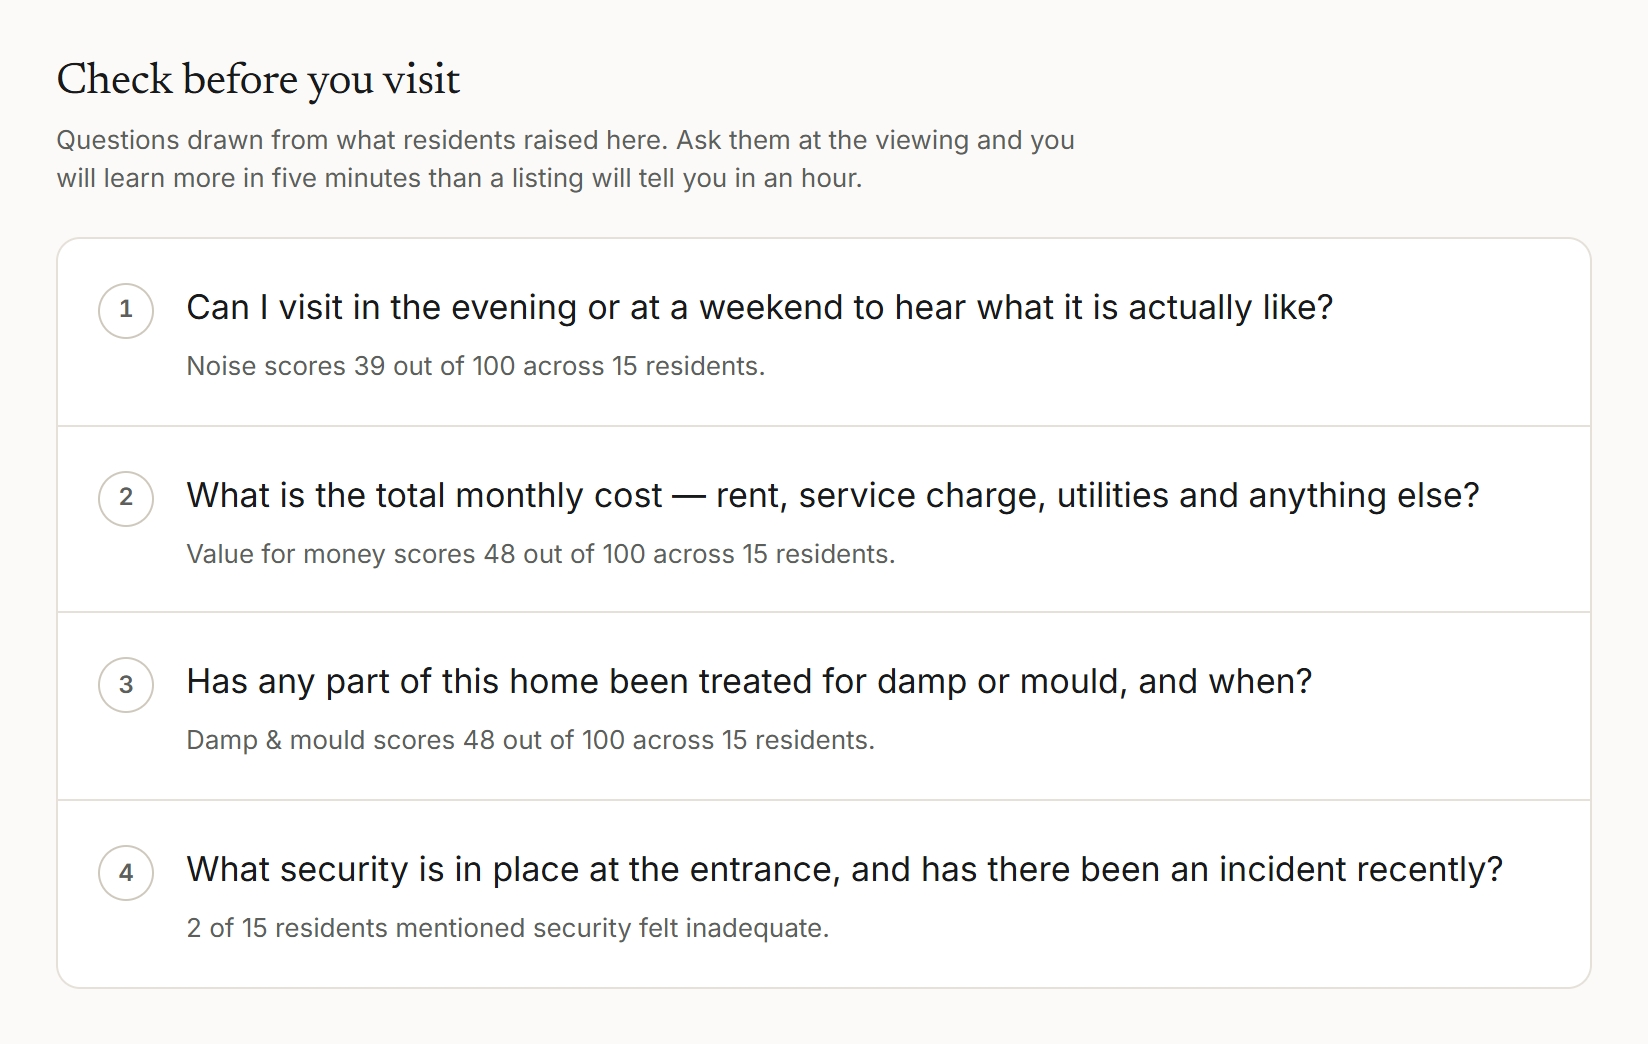
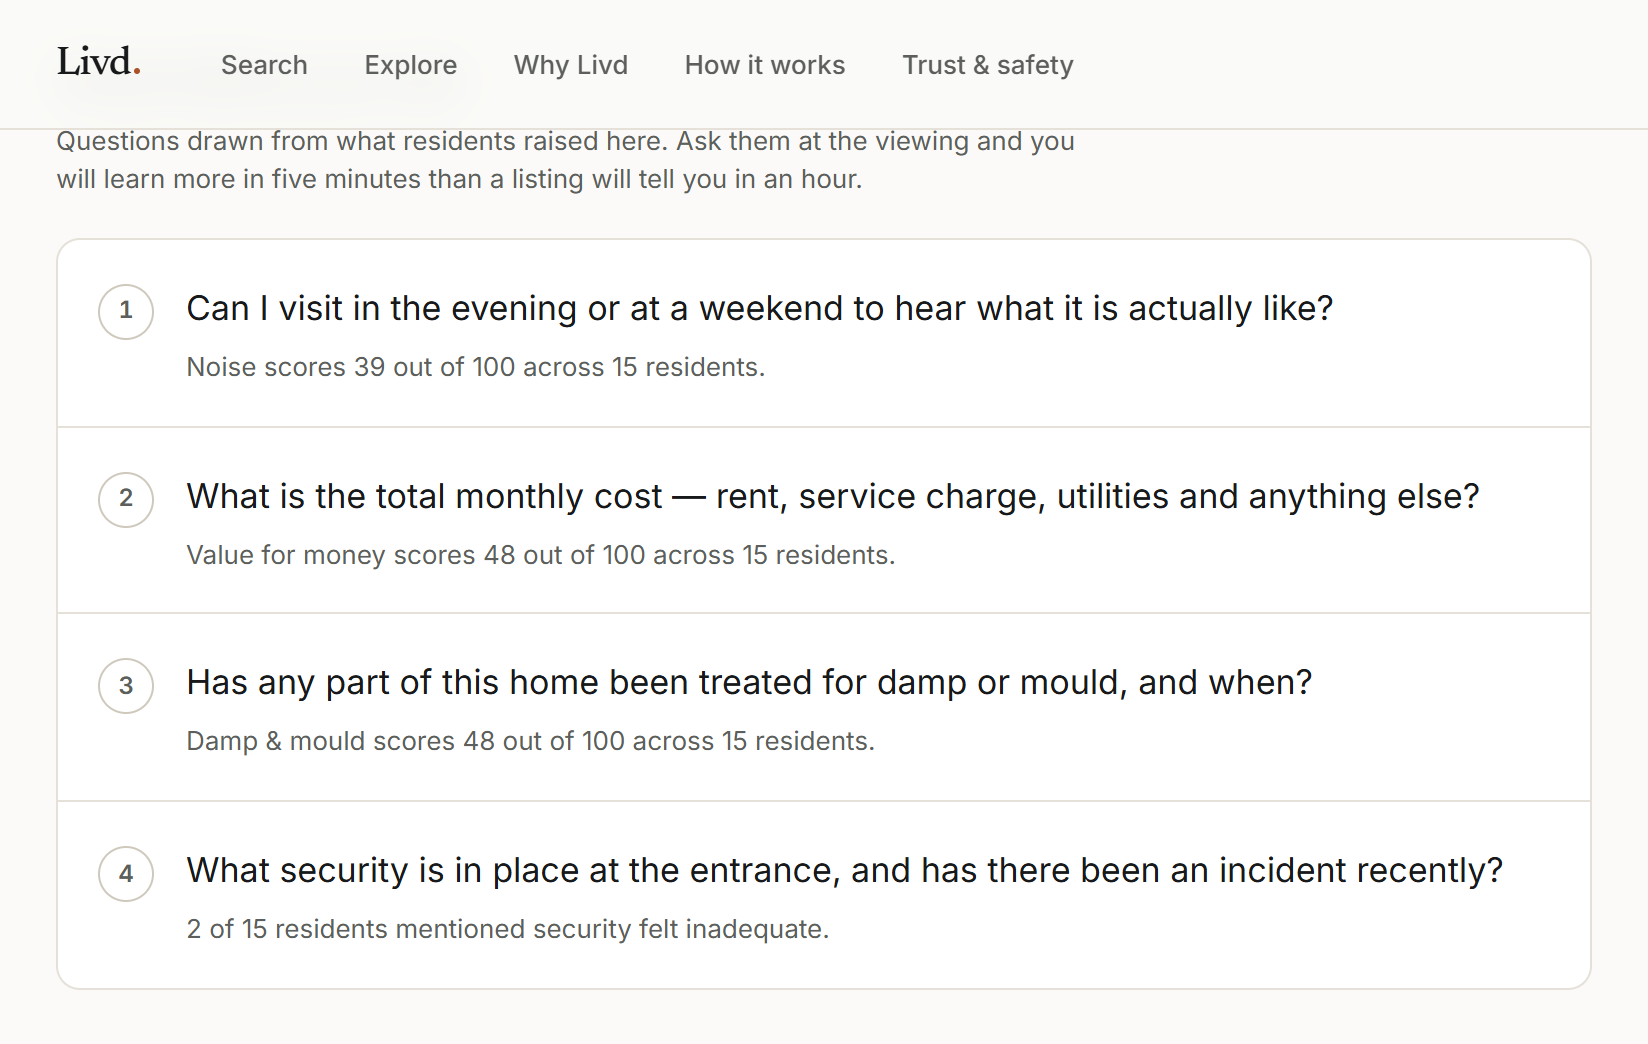
docs: bring the README up to the product it now describes
Sixty-three commits in eight days, and the README stopped keeping up somewhere
around the middle of them. The structure was still right; the substance had
aged badly.

Figures. 953 tests across 58 files, not 427 across 20. 75 policies, 105
database functions, 50 migrations, 40 routes, 212 source files. The schema line
had already been corrected once and drifted again, which is an argument for
counting it rather than remembering it.

Screenshots. Every one of the eighteen showed a navigation bar that no longer
exists — Places became Explore and Why Livd was added — so all of them were
recaptured against livd.site. Eight new ones: Explore, the Trust & Safety case
list, the admin console, the user directory, the audit trail, the report
dialog, email preferences and Why Livd. The case screenshot is a real case,
opened by reporting a review through the product and following it into the
console, rather than a seeded row.

Security testing. docs/security-testing.md did not exist when this README was
written and is now the strongest single thing in the repository: ninety attacks
against the live database, each inside a deliberately aborted transaction, two
of which found real defects. It gets an Evidence entry that says what was found
rather than only that testing happened. A log that never failed would be worth
less.

Two product decisions added, because both are now built and neither was
described: a report opens a case and a case does not act on the review, and
[…]

diff --git a/README.md b/README.md
@@ -70,8 +70,17 @@ literally ask at the viewing. Every question states the evidence it came from.
 </tr>
 </table>
 
+![Explore](docs/images/explore.png)
+
+Explore is the surface for people who do not yet have an address in mind. It
+orders by where the reader is without limiting what they can reach, and says so
+in as many words: *"Search is worldwide. Nothing here is limited to where you
+are."* Below it, neighbourhood-level discovery, and a nearby control that asks
+for a location only once somebody presses it.
+
 More screens in [`docs/images/`](docs/images) — the resident verdict, category
-scores, the freshness panel, the timeline, and the empty states.
+scores, the freshness panel, the timeline, the empty states, the Trust & Safety
+console, and the audit trail.
 
 ---
 
@@ -153,6 +162,49 @@ request could change — the capability does not exist.
 Moderation is on the record too: a review is never deleted, only restatused, and
 every decision is written to an append-only log no role can edit.
 
+### A report opens a decision. It does not make one.
+
+A reader's report becomes a **case** — one investigation, however many reports it
+gathers — with its own priority, category, assignee and notes.
+
+![The Trust &amp; Safety case list](docs/images/trust-safety-cases.png)
+
+The sentence at the top of that screen is the whole design: *"Opening a case does
+nothing to the review it concerns — hiding or removing anything is a separate
+decision, with its own reason."* Investigating and acting are deliberately not
+the same gesture, because a console where looking into something and taking it
+down are one click apart will eventually take down the thing somebody only
+looked into.
+
+Around it: evidence preservation holds that stop material being deleted while a
+case is open, sanctions against accounts rather than only content, authority
+requests logged as disclosure records, and a privileged identity reveal that is
+itself audited — who looked at whose information, not only what they decided.
+
+*Enforced across [migrations 0019–0050](supabase/migrations), and attacked as each one landed — see [`docs/security-testing.md`](docs/security-testing.md).*
+
+### Standing is the strongest thing Livd can do to you, so it is said out loud
+
+An account is `active`, `restricted`, `suspended` or `banned`, and the sanction
+that changes it is a first-class record with a category, a reason and an expiry
+— not a flag somebody flips. Deleting an account severs its writing from it
+rather than erasing it: the reviews, owner replies and moderation record survive
+unattributed, while the shortlist, notifications, location checks and residency
+documents are destroyed.
+
+And the account is told. Two messages ignore the email preferences entirely:
+
+![Email preferences](docs/images/notification-preferences.png)
+
+> A decision that removes something you wrote or changes your account's standing
+> — a platform that can take your writing down and is under no obligation to
+> mention it is not one worth writing for.
+
+There is no newsletter, no digest and no marketing list, so there is nothing on
+that page to turn off that nobody asked for.
+
+*Enforced in [`supabase/migrations/0050_standing_and_the_record.sql`](supabase/migrations/0050_standing_and_the_record.sql) and `src/server/notify/`.*
+
 ### Global from the first commit
 
 Address structure, currency, property-type vocabulary and which review
@@ -178,15 +230,21 @@ rather than merely displays. Written up in [`docs/product-spec.md`](docs/product
 
 **Design.** The design system — tokens, type scale, palette, motion, responsive
 strategy, voice — specified in [`docs/design-system.md`](docs/design-system.md)
-and implemented as 65 components. No component library: a bought design system
+and implemented as 75 components. No component library: a bought design system
 is the fastest route to looking like a template. Every user-facing string lives
 in one typed file so a second locale is a sibling object rather than a
 component change.
 
 **Engineering.** The full application: Next.js App Router, the two-adapter data
 layer, the PostgreSQL schema with its RLS policies and database functions, the
-trust and safety pipeline, the verification architecture, the test suite, and
-the deployment.
+verification architecture, the Trust & Safety case system, the notification
+catalogue and its delivery path, the test suite, and the deployment — domain,
+DNS and mail authentication included.
+
+**Adversarial testing.** I attacked the deployed database as each role and wrote
+down what it refused, including the two occasions it refused nothing. That log
+is [`docs/security-testing.md`](docs/security-testing.md), and the findings in
+it are mine to have made and mine to have found.
 
 **What this is not.** There is no team here, so there is no evidence of
 collaboration, and no real users, so there is no adoption data. The seeded
@@ -230,8 +288,8 @@ library, no analytics SDK, no AI at runtime. The Content-Security-Policy permits
 `'self'` and the Supabase origin and nothing else; fonts are self-hosted, so
 rendering a page contacts no third party.
 
-`41` tables · `63` RLS policies · `100` database functions · `48` migrations ·
-`37` routes · `193` source files · `42` test files.
+`41` tables · `75` RLS policies · `105` database functions · `50` migrations ·
+`40` routes · `212` source files · `58` test files.
 
 Full detail in [`docs/architecture.md`](docs/architecture.md) and
 [`docs/database-schema.md`](docs/database-schema.md).
@@ -240,10 +298,23 @@ Full detail in [`docs/architecture.md`](docs/architecture.md) and
 
 ## Evidence
 
-- **427 tests** across 20 files (`npm test`), weighted toward the highest-risk
+- **953 tests** across 58 files (`npm test`), weighted toward the highest-risk
   code: scoring, the safety linter, rate limiting, burst detection, the
-  verification and account-deletion pipelines, the colour palette and the
-  international layer.
+  verification, sanction and account-deletion pipelines, the notification
+  catalogue, the colour palette and the international layer.
+- **90 recorded attacks against the live database**, in
+  [`docs/security-testing.md`](docs/security-testing.md). Each one impersonates
+  a signed-in browser session by setting the Postgres role and the JWT claims
+  PostgREST would set, and runs inside a transaction that is deliberately
+  aborted, so no production row is created or changed. It is a log rather than a
+  certificate: **two of the runs found real defects**, and both are written up
+  under the word they deserve. A moderator could rewrite `profiles.role` on any
+  account — *"PERMITTED — 1 row. The escalation was real"* — unexploited only
+  because no moderator had been appointed yet. And `reviews.author_id` was
+  readable by `anon`, returning a stable author key for all 222 published
+  reviews; a UUID is not a name, but a stable per-author key on a public row
+  still lets someone group everything one person has written. Both fixed, both
+  re-attacked afterwards to prove the fix.
 - **Zero axe-core violations** across 13 pages in a production build. The one
   violation axe still reports is a disabled pagination control, which WCAG 1.4.3
   exempts as an inactive component and which is `aria-hidden` besides.
@@ -275,10 +346,19 @@ Full detail in [`docs/architecture.md`](docs/architecture.md) and
 
 ## Status
 
-Deployed and working end to end. Not launched — there are no real reviews, and
-three things stand between the current build and a public launch: an email
-provider for magic links, error monitoring, and counsel's review of the three
-policy pages in each market.
+Deployed at [livd.site](https://livd.site) and working end to end. Not launched —
+there are no real reviews yet.
+
+Signing in works, through Google. Notifications are built and delivering:
+Livd sends its own mail through Resend from `notifications@livd.site`, SPF, DKIM
+and DMARC all pass, and `/admin/email` sends the whole catalogue through the
+production path so delivery can be checked without inventing content to trigger
+it. What is still missing is custom SMTP on Supabase's own sender, which is what
+the *sign-in link* goes through — until that is configured the link is single-use
+and Gmail's scanner spends it about fifteen seconds after delivery.
+
+The other two pre-launch items are unchanged: error monitoring, and a legal
+entity with counsel's review of the three policy pages in each market.
 
 **Deliberately not built.** Maps, because a pin on a residential building is a
 liability before it is a feature and the privacy design has to come first. Also
@@ -297,6 +377,9 @@ AI-generated prose. `docs/roadmap.md` has the reasoning and what comes next.
 | [`docs/brand-mark.md`](docs/brand-mark.md) | The standalone symbol, the favicon and app-icon system, and how to use them |
 | [`docs/database-schema.md`](docs/database-schema.md) | Every table and the reasoning behind it |
 | [`docs/deployment.md`](docs/deployment.md) | Supabase, Vercel, seeding, geocoding, environment |
+| [`docs/security-testing.md`](docs/security-testing.md) | 90 attacks against the live database, what each control refused, and the two findings that were real |
+| [`docs/domain.md`](docs/domain.md) | livd.site, the DNS records, and what must survive every edit |
+| [`docs/email.md`](docs/email.md) | The two mail paths, the five addresses, and why there is no `no-reply@` |
 | [`docs/legal-review.md`](docs/legal-review.md) | The briefing pack for counsel, and what the product does with personal data |
 | [`docs/roadmap.md`](docs/roadmap.md) | What shipped, known limitations, what is next |
 
